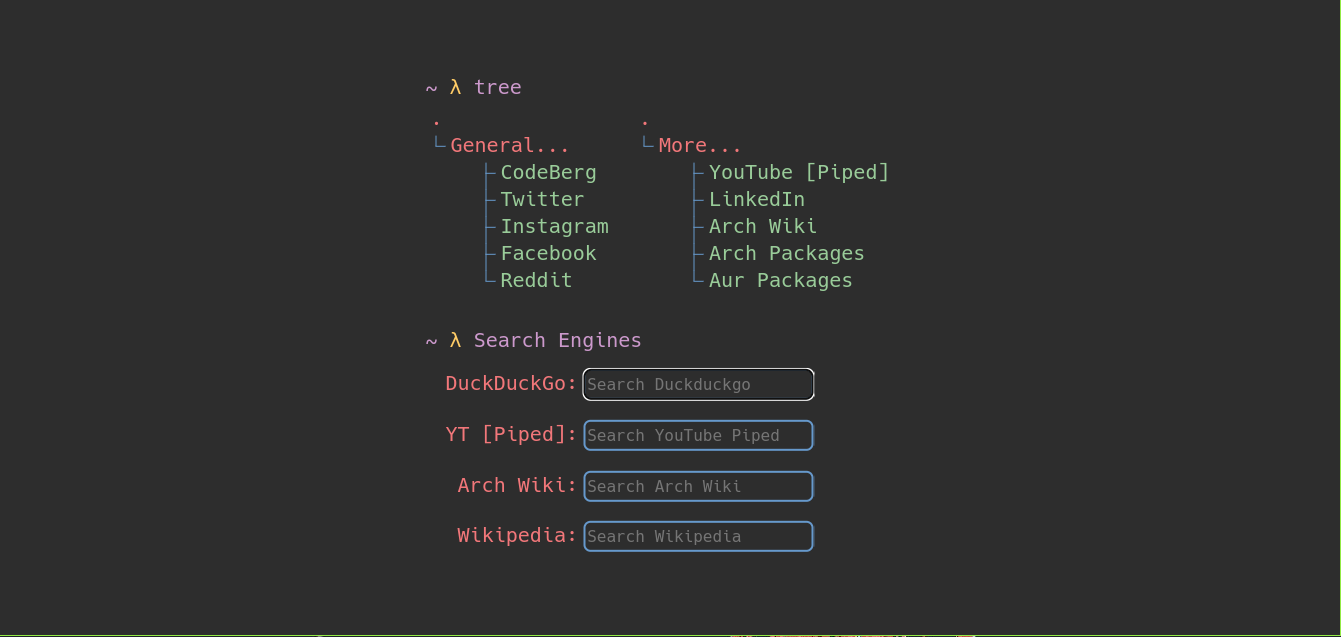
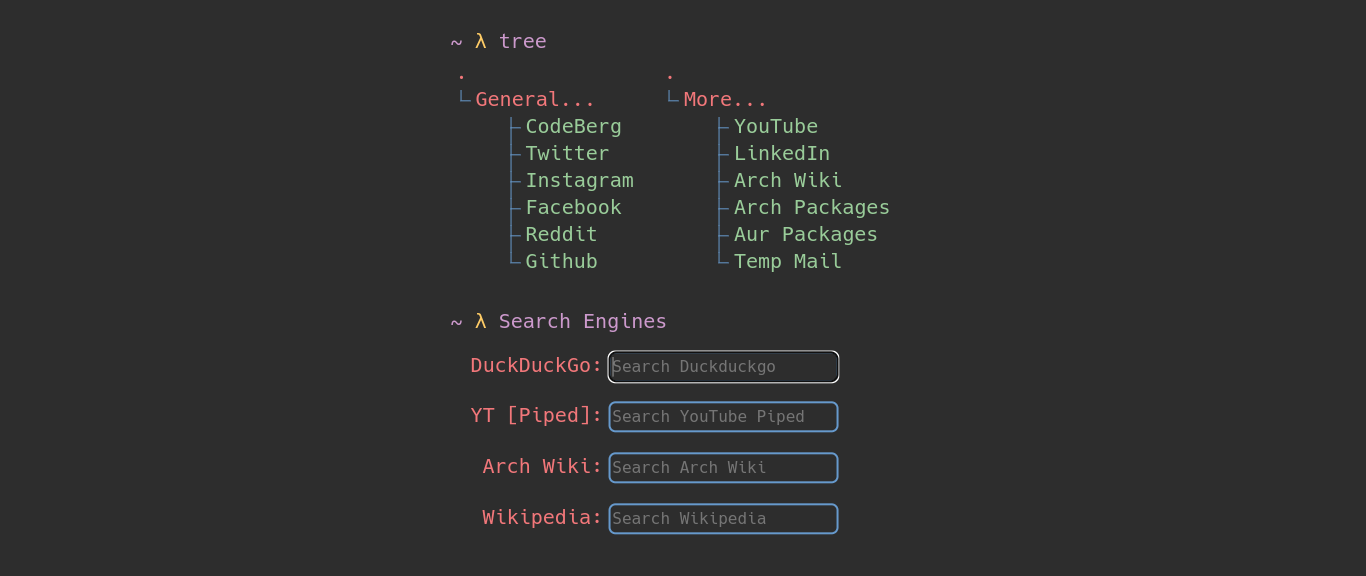
added temp mail + error handling page

diff --git a/README.md b/README.md
@@ -1,7 +1,7 @@
 # startpage
 
 ``` diff
-- The project is no longer maintained here.
+- The project is rarely maintained and updated here.
 + It is moved to https://codeberg.org/whoisYoges/startpage.
 + All the updates and new projects are
 + available at https://codeberg.org/whoisYoges.
